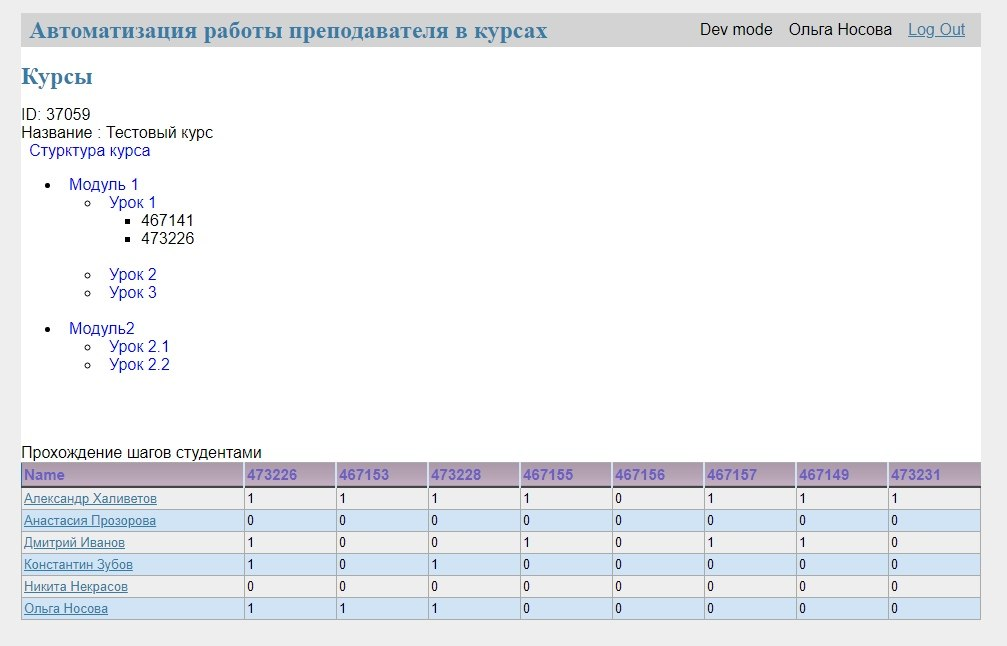
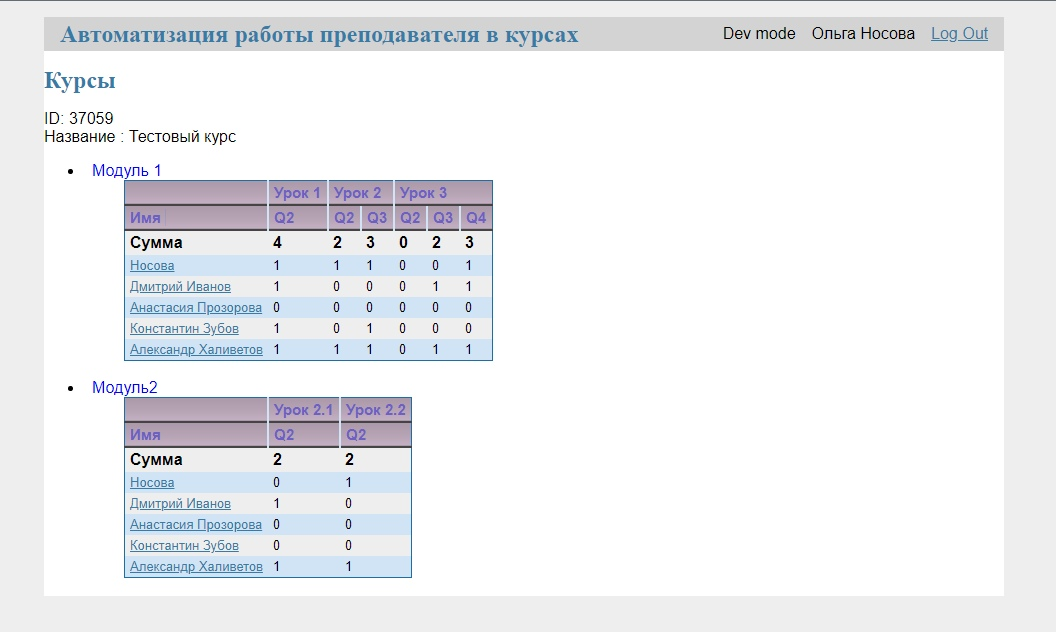
#45 #26 при обновлении база данных удаляется, исправлен порядок степов на странице курса, добавлены скриншоты

Changed region(s): [[0.0, 0.6013, 0.9851, 0.962], [0.0, 0.0, 0.9851, 0.5712]]

diff --git a/src/automation_of_work_for_stepic/app/templates/page/course.html b/src/automation_of_work_for_stepic/app/templates/page/course.html
@@ -42,7 +42,7 @@ ID: {{course.id}} <br>
                     <tr>
                         <th>Имя</th>
                         {%- for lesson in lessons%}
-                        {%- for step in Step.objects.filter(id__in=lesson.steps) %}
+                        {%- for step in Step.objects.filter(id__in=lesson.steps).order_by('position') %}
                         <th>Q{{step.position}}</th>
                         {%- endfor %}
                         {%- endfor %}
@@ -52,7 +52,7 @@ ID: {{course.id}} <br>
                     <tr>
                         <th>Сумма </th>
                         {%- for lesson in lessons %}
-                        {%- for step in Step.objects.filter(id__in=lesson.steps) %}
+                        {%- for step in Step.objects.filter(id__in=lesson.steps).order_by('position') %}
                         <th>{{step.count_passed}}</th>
                         {%- endfor %}
                         {%- endfor %}

diff --git a/src/automation_of_work_for_stepic/information_processor.py b/src/automation_of_work_for_stepic/information_processor.py
@@ -3,24 +3,10 @@ from automation_of_work_for_stepic import configuration as conf
 from automation_of_work_for_stepic import stepic_api
 from automation_of_work_for_stepic.utility import singleton
 from automation_of_work_for_stepic.mongo_model import *
-from mongoengine import connect
-import itertools
+from mongoengine.connection import get_db
+
 import datetime
-import copy
-from datetime import datetime, date
-
-import cProfile
-
-def profile(func):
-    """Decorator for run function profile"""
-
-    def wrapper(*args, **kwargs):
-        profiler = cProfile.Profile()
-        result = profiler.runcall(func, *args, **kwargs)
-        profiler.print_stats()
-        return result
-
-    return wrapper
+from datetime import datetime
 
 @singleton
 class InformationsProcessor:
@@ -48,6 +34,12 @@ class InformationsProcessor:
         Скачивает информацию со степика
         :return:
         """
+        db = get_db()
+        for coll in db.list_collection_names():
+            db.drop_collection(coll)
+
+        self.user.save()
+
         course_id = []
         steps_id = {}
 
